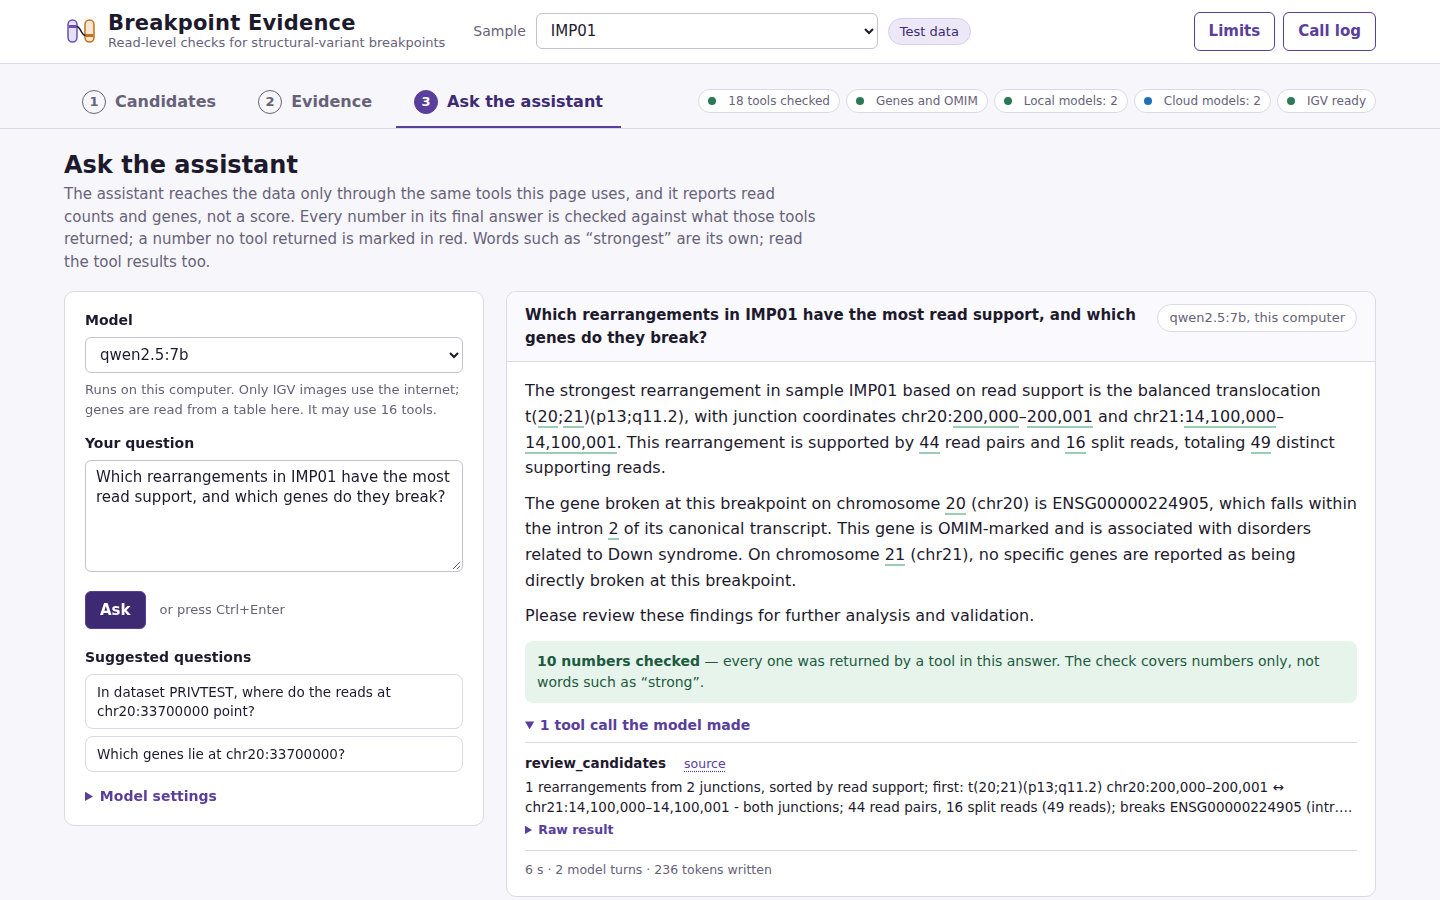
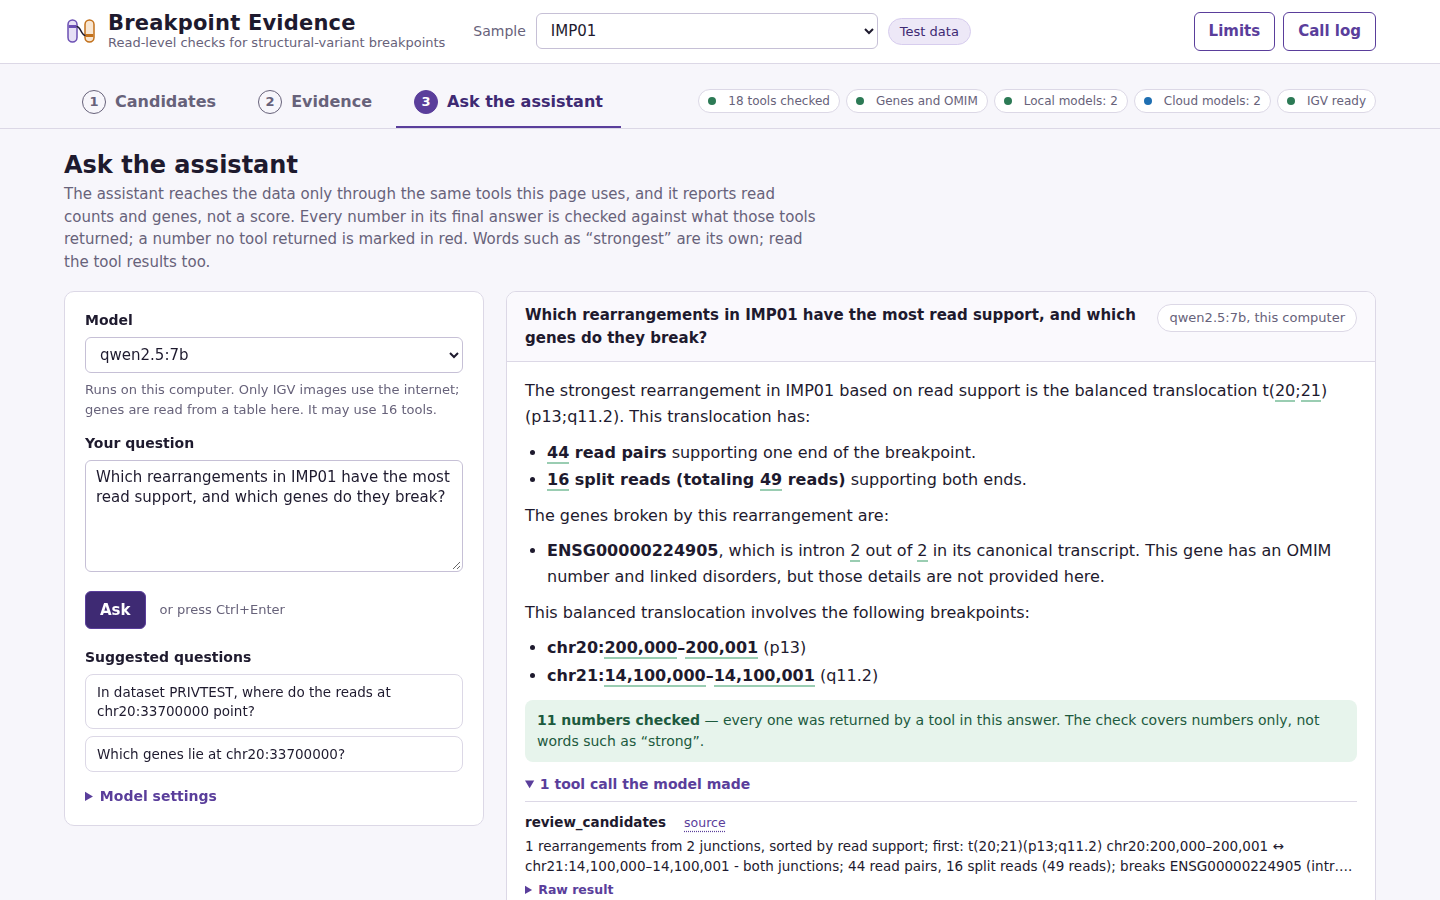
Phase 26: click-through run 3 with the two cloud questions, 31 of 31, both meta lines recorded; FIGURE_MAP P4, P.9, G6
Run 1's cloud meta lines were lost when its script timed out (Q5). With
the author's go-ahead the two --cloud questions were sent once more, on
public data only: 31 of 31 checks; test-data question 6.1 s, 2 turns,
454 tokens, $0.032; PRIVTEST with permission 22.5 s, 4 turns, 2,405
tokens, $0.064. Run 3 now holds the step's record name and screenshot
folder; run 2's record and the runs 1-2 screenshots keep their own
names. Gates: --staged clean with the identifier list and the key file;
guard exit 0.

Changed region(s): [[0.3438, 0.4044, 0.9688, 1.0]]

diff --git a/stage1_igv_assistant/results/FIGURE_MAP.md b/stage1_igv_assistant/results/FIGURE_MAP.md
@@ -369,6 +369,7 @@ Definitions beside every figure in `DF/remeasure.json` and `DF/suites.json`.
 | G3 | same, 54 background breakends | 365 of 377 (512 of 2,617 at MAPQ 0) | `SC2` `public.aggregate.background` | new |
 | G4 | background breakends whose summary would change without same-chromosome partners (counterfactual) | 36 scores, 9 bands, 40 split components, 47 sentences; every one an intra-chromosomal call (DEL 34 of 40, DUP 9 of 10, INV 4 of 4), where a same-chromosome partner is the event's own split evidence | `SC2` `public.background_by_svtype`, `positions[*].svtype` | new; not a defect |
 | G5 | the second part's commit (Q5, the records of steps 2–7 and this section): `--staged` with the list before it; `--base 42a5bfd` with the list and the key file over all three commits before the push; the guard on the staged tree; what is staged | `--staged`: the first run FIRED (exit 1) on six home-directory paths in `PC26` (the `--check` lines quoted in it); written with `~`, the second run is clean, exit 0. Guard: exit 0, all identical. Staged: the walkthrough script, FIGURE_MAP, four records and 12 screenshots of public data; nothing under `~/public_data/annotation/`, no log, nothing under `docs/thesis/`. `--base` over the three commits: run after the commit, before the push; the push happens only if it is clean |
+| G6 | the third commit of the second part (run 3 of the click-through, the moved run 1–2 records, this update): `--staged` with the list and the key file; the guard; what is staged; `--base 42a5bfd` before the push | as G5; the identifier scan of run 3's logs and record found 0 hits. Results in the commit message |
 | G5 | patients, 100 positions each: same-chromosome-only split reads at MAPQ 20 | 13 of 18 (SAMPLE_A), 0 of 7 (SAMPLE_B); counterfactual changes 1 score and 1 split component, no band | `SC2` `SAMPLE_*` | new; totals only |
 
 **The thesis, 2026-09-27.** The file in `docs/thesis/` was not replaced: it is
@@ -1035,7 +1036,7 @@ author's machine ("not run here" below). `PC26c` = `results/phase26_cloud_checks
 `results/phase26_cloud_fixes_2026-10-03.json`, `SU26c2` = `results/suites_2026-10-03_phase26_cloud_2.json`
 (all four written in that container; their times are its clock, UTC); from the second part, on the author's machine
 (local time, EEST): `PC26` = `results/phase26_checks_2026-10-03.json`, `SU26` = `results/suites_2026-10-03_phase26.json`,
-`WT26` = `results/interface_walkthrough_2026-10-03_phase26.json`, `RR26` = `results/review_ranking_2026-10-03.json`; `SU25` =
+`WT26` = `results/interface_walkthrough_2026-10-03_phase26.json` (run 3; run 2 is `…_phase26_run2.json`), `RR26` = `results/review_ranking_2026-10-03.json`; `SU25` =
 `results/suites_2026-10-02_phase25.json`, `PR` = `results/patient_rerun_2026-09.json`. `PC26c`
 `code_state` gives the sha256 of the files every check of the first commit (`06018a1`) ran on;
 `PC26c2` `code_state` those of the two files changed after it (Q3, Q4).
@@ -1051,7 +1052,7 @@ after; the whole diff was read (`PC26c` `preconditions`, `patch`).
 | P1 | the annotation files and the gene table | not run here: `ftp.ebi.ac.uk`, `omim.org` and `purl.obolibrary.org` are refused (403) by the container's egress policy (`PC26c` `environment.network`). Checked instead on a two-gene GTF written there (`PC26c` `gene_table_round_trip_on_a_synthetic_gtf`): `scripts/make_gene_table.py` keeps the transcript tagged `Ensembl_canonical` over a longer untagged one and names its GTF by file name only, with its sha256; with that table `gene_table` gives, on the + strand, exon 1 of 3 at the lowest exon and intron 1 of 2 after it, and on the − strand exon 3 of 3 at the lowest exon, exon 1 of 3 at the highest and intron 2 of 2 between the lower two; a position outside both genes gives none. **On the author's machine:** the three files downloaded on 2026-10-03 at 08:01 UTC (`PC26` `annotation`: URL, size, sha256, server date): the GENCODE 46 basic GTF, 30,390,388 bytes, sha256 d620d548…dceb9b4, header date 2024-03-26 (Ensembl 112); OMIM `mim2gene.txt`, 989,611 bytes, sha256 e74c8176…16daa, generated 2026-10-02; HPO `genes_to_disease.txt`, 1,492,039 bytes, sha256 7937a1b9…b5978, release v2026-09-01 (the purl redirected to the GitHub release, so the fallback address was not needed). `make_gene_table.py`: "63086 genes written; 20065 protein-coding" (7 s). With the table the server loads (63,086 genes; 17,736 with an OMIM gene entry; 5,550 linked to a disorder): TP53 chr17:7,661,779–7,687,546, strand −, 11 exons, OMIM gene 191170, 12 OMIM disorders among them OMIM:151623, "exon 11 of 11" at the lowest exon and "exon 1 of 11" at the highest; BCR chr22, +, 23 exons, OMIM 151410, "exon 1 of 23" and "exon 23 of 23"; ABL1 chr9, +, 11 exons, OMIM 189980, "exon 1 of 11" and "exon 11 of 11". NAUDOJIMAS's command, run with the system `python3`, prints the same line and writes the same table | agrees with every expectation of the task |
 | P2 | fixes made on top of the patch | five, each first shown failing (P.2): two on the page in step 1 (Q1, Q2), two in `tools/junction_tools.py` after the first commit, at the author's request (Q3, Q4), and one in the walkthrough script on the author's machine (Q5) | fixed |
 | P3 | the tests and the suites | `tests/test_junction_review.py` 79 of 79. `tests/test_interface_page.py` as patched: 91 of 91; with the 2 checks added in P.2, 92 pass and 1 fails on the as-patched page, and 93 of 93 pass on the committed files (`PC26c` `fixes_on_top_of_the_patch.Q1`). Every suite with the census in the container (`SU26c`): 28 suites, 24 passed, 2 failed, 2 incomplete; 846 assertions held, 1 failed, 7 NOT RUN lines. Against `SU25`, 22 suites are identical (exit, held, failed); `test_interface_page.py` 90 → 93 and the new `test_junction_review.py` (79) are this phase's; the other four are the container's: `test_api_leak.py` (no sample registered: "no datasets registered; cannot test the real payload"), `test_bam_tools.py` (Ensembl refused and no IGV, then a `ValueError` opening the public GIAB BAM from a refused host; 184 held and none failed before it), `test_ceiling_echo.py` and `test_ceiling_layers.py` (no `IMP01.bam`: incomplete). The first two fail the same way on `42a5bfd` in the container (`PC26c` `suites`). After Q3 and Q4 (`PC26c2`; `SU26c2`): `tests/test_junction_review.py` 84 of 84, every other suite as in `SU26c` (851 assertions held). **On the author's machine:** `SU26` (IGV's Java on PATH, `DISPLAY=:0`): 28 suites, 28 passed, 936 assertions held, 0 failed, 0 NOT RUN lines. Against `SU25` only `test_interface_page.py` (90 → 93) and the new `test_junction_review.py` (84) changed; the four suites the container could not run pass here with their `SU25` counts. Run alone: 84 of 84 and 93 of 93 | pass: 28 of 28 suites, 936 assertions, as expected |
-| P4 | the click-through | not run here: it needs `~/public_data` (PRIVTEST is IMP09's files), IGV with a display, the local model and the API key. **On the author's machine:** two runs (`PC26` `walkthrough`). **Run 1** (`--cloud`, the script as patched): 27 checks passed, then step 8 timed out before `walkthrough.json` was written. With the page's defaults PRIVTEST (IMP09) has no junction (894 → 13 translocations → 3 PASS → 1 → 0), so "Show the 0 candidates" correctly shows "No junction passes these filters", and the script waited only for a row or an error (Q5). Run 1 sent the two cloud questions, and the three cloud checks passed. Their meta lines (time, turns, tokens, cost) were drawn below the screenshots' viewport, and the server keeps no copy, so **they are not recorded for this phase**. **Run 2** (after Q5, on a fresh interface, without `--cloud`, so nothing was sent to the API): 28 of 28, no page error (`WT26`). IGV made its four images in 101 s. qwen2.5:7b made one tool call, `review_candidates`, and all 10 numbers in its answer were returned by that tool. Its words are wrong, though: it places ENSG00000224905 at the chr20 breakpoint (the tool gives chr21) and calls it OMIM-marked with Down-syndrome disorders (the tool gives no OMIM mark). That is a finding about the model; the page was not changed. So each of the 31 checks passed in one of the two runs, not all 31 in one run. Screenshots: `screenshots/interface_2026-10-03_phase26/` (run 2's ten, plus run 1's two cloud answers as `run1_08`, `run1_09`). In `02_evidence` the schematic and both read boxes are legible, with nothing cut off or overlapping. One place is cramped: the first derivative's two piece labels touch, because its chr20 piece is only 200 kb. The schematic says one derivative has no centromere and the other has two; that is true of IMP01 as built (`implants_ground_truth.json`: chr20:1–200,000 joined to chr21 from 14,100,001, and chr21:1–14,100,000 to chr20 from 200,001), so the caution is right for this synthetic event | pass, over two runs; the cloud meta lines open (P.9) |
+| P4 | the click-through | not run here: it needs `~/public_data` (PRIVTEST is IMP09's files), IGV with a display, the local model and the API key. **On the author's machine:** two runs (`PC26` `walkthrough`). **Run 1** (`--cloud`, the script as patched): 27 checks passed, then step 8 timed out before `walkthrough.json` was written. With the page's defaults PRIVTEST (IMP09) has no junction (894 → 13 translocations → 3 PASS → 1 → 0), so "Show the 0 candidates" correctly shows "No junction passes these filters", and the script waited only for a row or an error (Q5). Run 1 sent the two cloud questions, and the three cloud checks passed. Their meta lines (time, turns, tokens, cost) were drawn below the screenshots' viewport, and the server keeps no copy, so **they are not recorded for this phase**. **Run 2** (after Q5, on a fresh interface, without `--cloud`, so nothing was sent to the API): 28 of 28, no page error (`WT26`). IGV made its four images in 101 s. qwen2.5:7b made one tool call, `review_candidates`, and all 10 numbers in its answer were returned by that tool. Its words are wrong, though: it places ENSG00000224905 at the chr20 breakpoint (the tool gives chr21) and calls it OMIM-marked with Down-syndrome disorders (the tool gives no OMIM mark). That is a finding about the model; the page was not changed. So after runs 1 and 2, each of the 31 checks had passed in one of the two runs, but not all 31 in one run. **Run 3** (the same day, after the author allowed the two `--cloud` questions to be sent once more, public data only, on a fresh interface): 31 of 31, no page error (`WT26`). IGV 110 s. The local model again made one call, `review_candidates`, and again got every number right and some words wrong: it says ENSG00000224905 "has an OMIM number and linked disorders". The two cloud meta lines: test-data question "6.1 s · 2 model turns · 454 tokens written · cost $0.032"; PRIVTEST with permission "22.5 s · 4 model turns · 2,405 tokens written · cost $0.064" ("Sent to Anthropic with your permission: tool results for PRIVTEST. The permission covered PRIVTEST only."). Four questions went to the API in all: two in run 1 and two in run 3. Screenshots: `screenshots/interface_2026-10-03_phase26/` holds run 3's twelve; run 2's ten and run 1's two cloud answers (`run1_08`, `run1_09`) are in `screenshots/interface_2026-10-03_phase26_runs1-2/`. In `02_evidence` the schematic and both read boxes are legible, with nothing cut off or overlapping. One place is cramped: the first derivative's two piece labels touch, because its chr20 piece is only 200 kb. The schematic says one derivative has no centromere and the other has two; that is true of IMP01 as built (`implants_ground_truth.json`: chr20:1–200,000 joined to chr21 from 14,100,001, and chr21:1–14,100,000 to chr20 from 200,001), so the caution is right for this synthetic event | pass: 31 of 31 in run 3, both cloud meta lines recorded |
 | P5 | where the implants rank | not run here: it needs `~/public_data/sim`. Checked: `scripts/review_ranking.py` reads `synthetic_control_2026-09/implants_ground_truth.json` as committed (12 implants; `id`, `class`, `breakpoints.chr20`, `breakpoints.chr21`). **On the author's machine:** `RR26`: 12 samples run. IMP01–IMP08 detected, each "both junctions", each rank 1 of 1 (28–49 supporting reads). IMP09–IMP12 not detected, 0 listed. The background lists 0, so it has no first row. 0.02–0.05 s per sample. This agrees with `figures.json` (sensitivity: both junctions 8/12; losses: IMP09–IMP12 at discovery, no DELLY record). On these chr20/chr21 slices the defaults leave only the implant or nothing, so the order is not tested here against competing candidates | agrees; the order is untested on a list longer than one |
 | P6 | the patient samples, counts only | not run here: the patient files stay on the author's machine. **The cloud session had no patient file: no patient coordinate, band, gene name, read name or caller id was printed or recorded there, and no patient data reached any API from it**. **On the author's machine:** `PC26` `patient_check`. The interface ran with the four patient files registered, `ANTHROPIC_BASE_URL` on a closed port, no display and no browser. Only `review_counts.py` called it (sha256 1743b6ce…6947e; it prints counts only), and the interface was stopped by its PID. **SAMPLE_A:** 30,596 junctions → 57 reviewed (not truncated) → 48 rearrangements, all translocations (7 both junctions, 40 one junction, 1 complex of 3). Supporting reads per rearrangement: 0 with 1–4, 17 with 5–9, 31 with 10 or more. 39 break a gene, 15 of them a gene with a disorder mark; 40 carry a caution. 4.7 s alone, 4.6 s with SAMPLE_B as comparison (34 then also marked as found in the other sample). **SAMPLE_B:** 32,041 → 63 → 55 (8 both junctions, 47 one); 2 with 1–4 reads, 17 with 5–9, 36 with 10 or more. 41 break a gene, 15 a disorder gene; 39 carry a caution. 2.7 s alone and 2.7 s with SAMPLE_A (38 also found in the other). The chain equals `PR` step by step for both samples. **No patient coordinate, band, gene name, read name or caller id was printed or recorded, and no patient data reached any API** (closed port; no message to `/api/chat` or `/api/privacy_check`). An identifier scan of every step log and new record found 0 hits; its positive control was caught | done; the chain ends at 57 and 63, as in `PR` |
 | P7 | why "Main chromosomes only" and "Skip known problem regions" remove nothing | the chain's figures in `PR` `funnel` (aggregate counts, already committed): for SAMPLE_A, of 9,172 translocation junctions, "Main chromosomes only" removes 0 in the chain and would remove 0 on its own, and "Skip known problem regions" removes 0 and would remove 1 on its own (an earlier step had removed it); for SAMPLE_B, of 9,655, 0 and 0, and 0 and 0. `PR` `delly`: the caller was run with `-x ~/reference/human.hg38.excl.tsv`, the template the page's step reads (`config.py`, default `exclude_template`). The caller therefore reported no junction inside the template's regions, which, as the task statement describes the file, list every non-primary contig, the centromeres, telomeres and heterochromatin; the two steps matter only for a file made without `-x`. The page says so in words when a step removes nothing (`ui_page.html` `funnelWhy`). **On the author's machine:** step 7's chain, from the review call the page makes, gives `PR`'s figures exactly. For SAMPLE_A, "Main chromosomes only" keeps 57 of 57 and would remove 0 on its own; "Skip known problem regions" keeps 57 of 57 and would remove 1 on its own. For SAMPLE_B, both keep 63 of 63 and would remove 0 | agrees with `PR`, confirmed |
@@ -1093,9 +1094,8 @@ Each was first shown failing: Q1 and Q2 on the as-patched page, Q3 on the code o
    `stage1_igv_assistant/README.md` ("both servers", "Either MCP server", "27 test files", 28
    now; no `review_server.py`, `junction_tools.py` or `gene_table.py`); `TUTORIAL.md`
    ("Fifteen tools across two MCP servers").
-7. Steps 2–7 ran on the author's machine (rows P1, P3–P7, `PC26`). Still open from them: the two cloud meta
-   lines of step 5, which were not recorded (P4). Recording them means running `--cloud` again, which sends two more
-   questions to the API and needs the author's go-ahead. Also open: the review's order on a list longer than one (P5).
+7. Steps 2–7 ran on the author's machine (rows P1, P3–P7, `PC26`). The cloud meta lines lost in run 1 were
+   recorded in run 3 (P4). Still open: the review's order on a list longer than one (P5).
 8. The local model reported every number correctly and two of its words wrongly (P4): it named the wrong chromosome
    for a gene and gave it an OMIM mark the tool did not give. The answer check covers numbers only (O.4 item 5).
 
